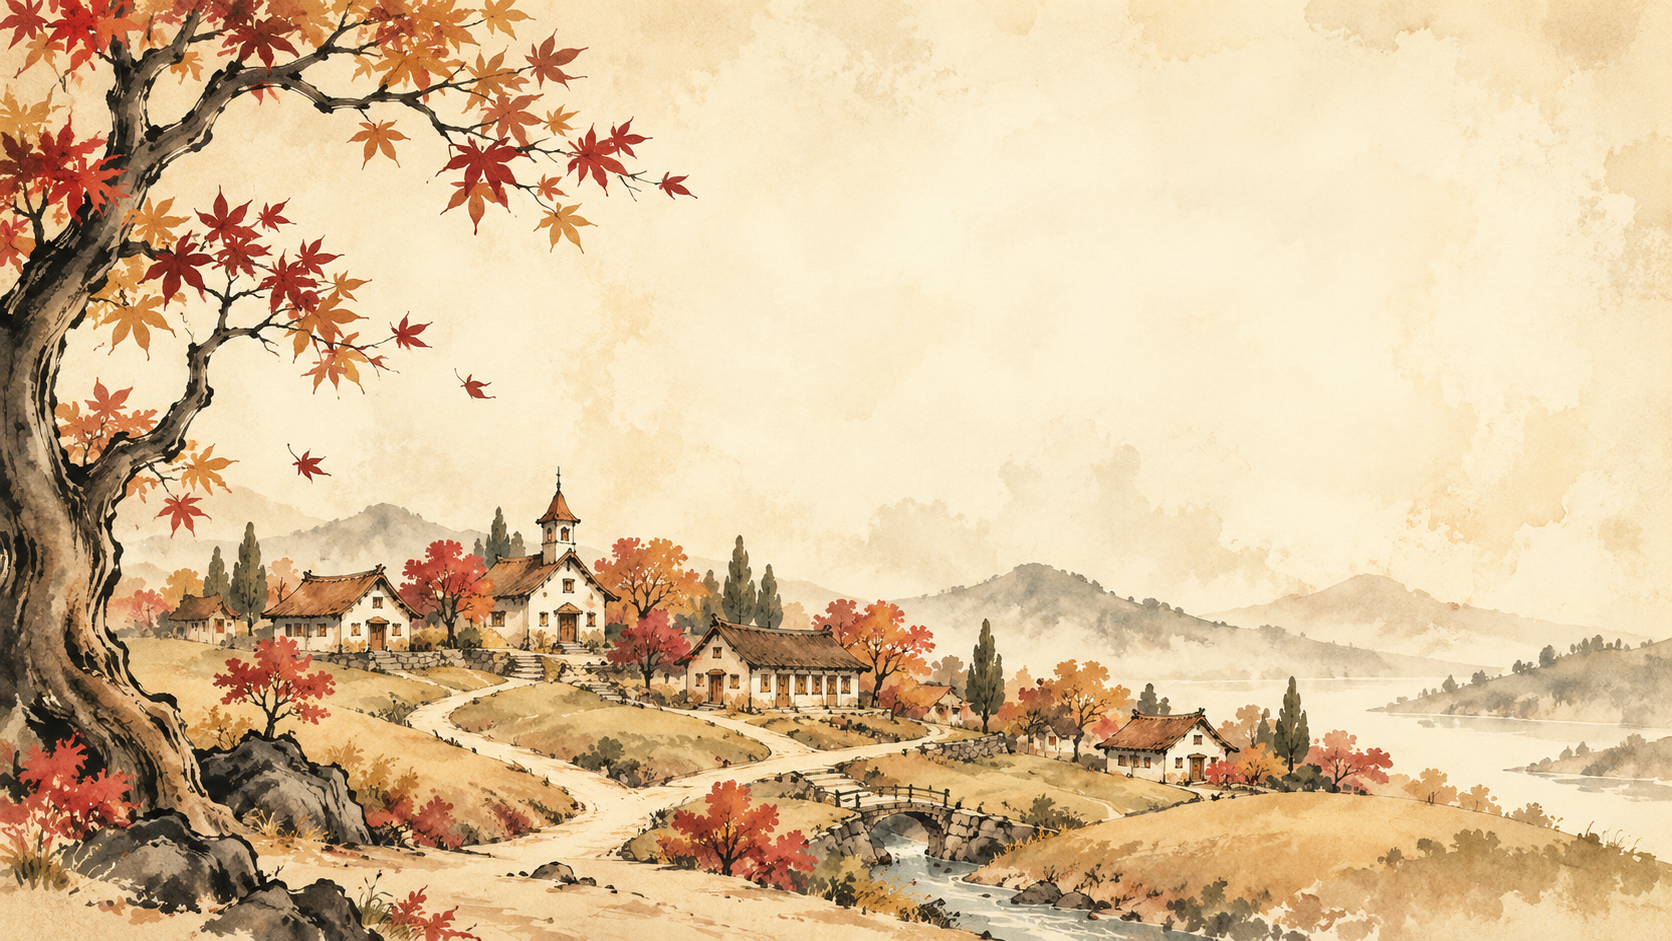
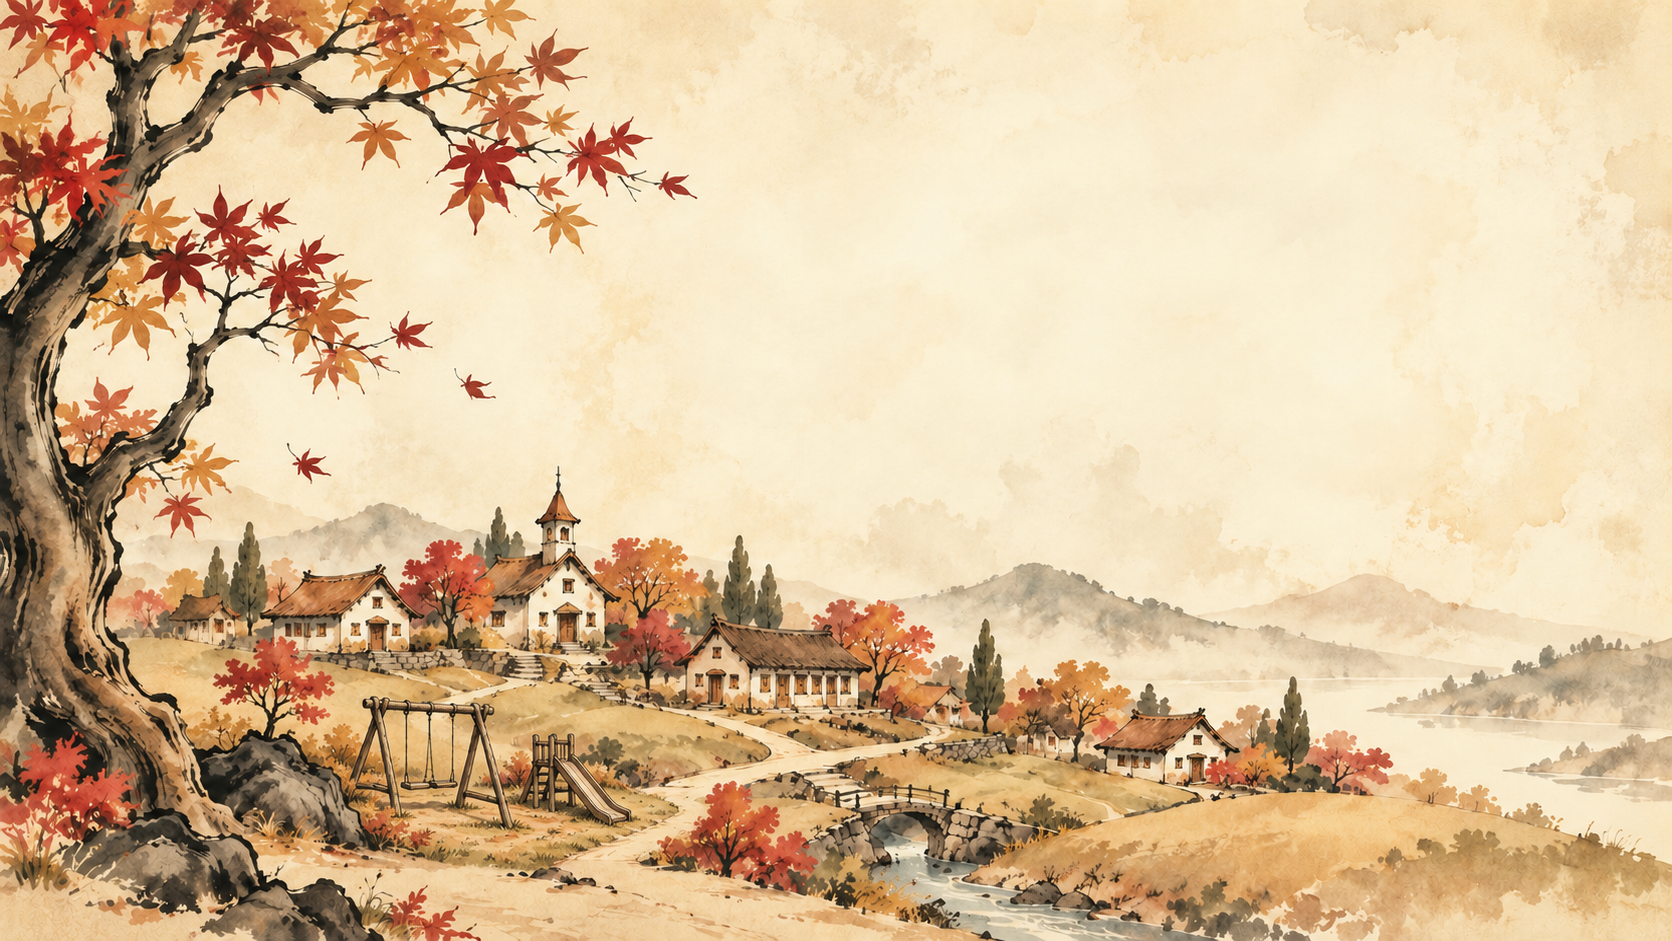
finish up

diff --git a/site/app.js b/site/app.js
@@ -29,7 +29,7 @@ function navigate(hash) {
 function renderHome() {
   return `<div class="home"><section class="hero" aria-labelledby="welcome-title">
     <div class="hero-copy"><h1 id="welcome-title">Probability Playground</h1><p class="hero-lede">Bayesian calculation practice</p></div>
-    <figure class="hero-art"><img src="./assets/autumn-village.png" width="1672" height="941" fetchpriority="high" alt="An autumn village in watercolor, with russet leaves, winding paths, and a stone bridge beside a lake."></figure>
+    <figure class="hero-art"><img src="./assets/autumn-village.png" width="1672" height="941" fetchpriority="high" alt="An autumn village in watercolor, with a small wooden swing set and slide beside the foreground path, russet leaves, and a stone bridge by a lake."></figure>
     </section><div class="home-content wrap">
     <section class="chapter-section" id="skills" aria-labelledby="skills-title"><div class="section-heading"><h2 id="skills-title">Choose a calculation</h2></div>
     <div class="chapter-grid skill-grid">${skills.map((s, i) => `<button class="chapter-card skill-card" data-action="skill" data-id="${s.id}"><span class="card-top"><span class="skill-symbol" aria-hidden="true">${['Σ','P(H | D)','P(D)','α, β','∑ wᵢpᵢ','P(next)','BF'][i]}</span><span class="card-chevron">${icon('arrow')}</span></span><h3>${esc(s.title)}</h3><span class="card-bottom">${esc(s.description)}</span></button>`).join('')}

diff --git a/README.md b/README.md
@@ -59,4 +59,4 @@ Answers accept decimals, decimal commas, fractions, and percentages for probabil
 
 The app does not read or write local storage, session storage, cookies, or a backend. It holds only the current question (or linked exam scenario) in memory. Leaving practice or reloading discards the current inputs and scenario. There are no accounts, saved sessions, attempts, scores, bookmarks, or review lists. Storage from earlier versions is not read or reused.
 
-The visual theme retains the supplied artwork in `site/assets/autumn-village.png`. `site/styles.css` and `site/autumn.css` provide the existing paper surfaces and typography; `site/calculations.css` adds the calculation workbook layout. Fonts come from the device, without external font requests.
+The visual theme uses the supplied autumn village artwork, minimally edited to add an empty wooden playground in the foreground, in `site/assets/autumn-village.png`. `site/styles.css` and `site/autumn.css` provide the existing paper surfaces and typography; `site/calculations.css` adds the calculation workbook layout. Fonts come from the device, without external font requests.
